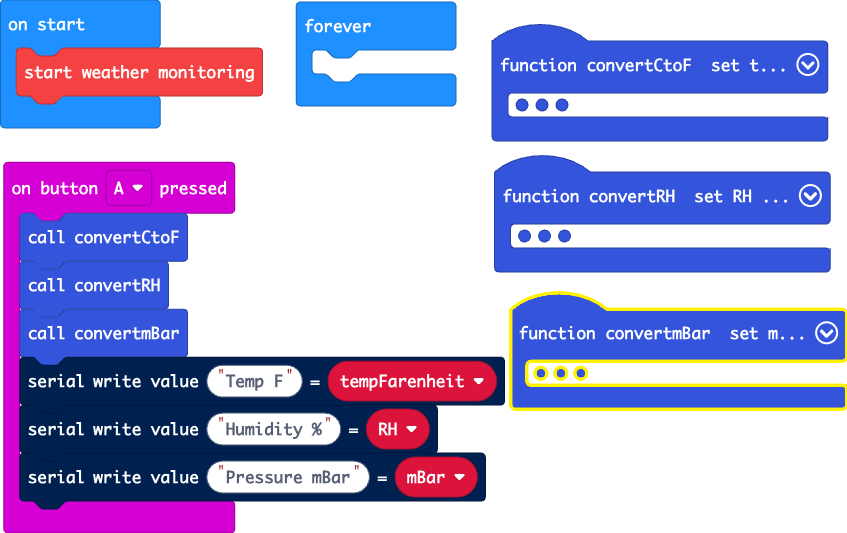
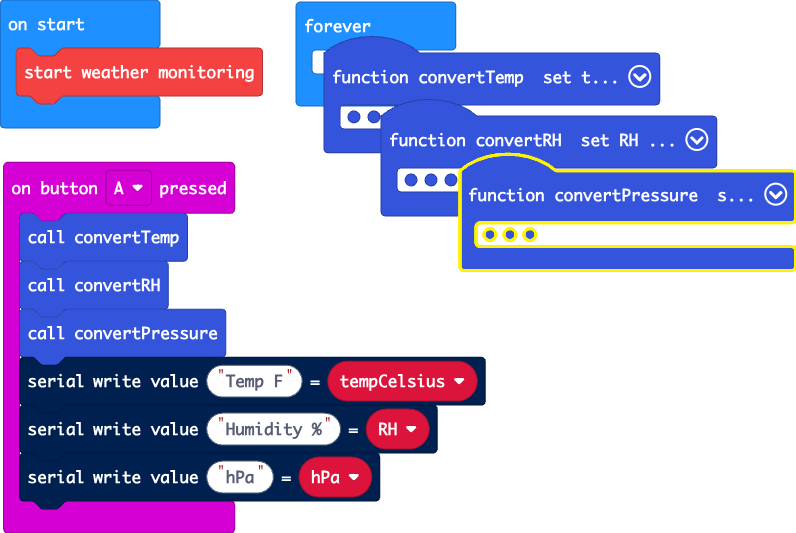
Update main.blocks, main.ts

diff --git a/main.ts b/main.ts
@@ -1,25 +1,25 @@
-function convertCtoF () {
+function convertPressure () {
+    hPa = Math.idiv(weatherbit.pressure(), 25600)
+}
+input.onButtonPressed(Button.A, function () {
+    convertTemp()
+    convertRH()
+    convertPressure()
+    serial.writeValue("Temp F", tempCelsius)
+    serial.writeValue("Humidity %", RH)
+    serial.writeValue("hPa", hPa)
+})
+function convertTemp () {
     tempCelsius = Math.idiv(weatherbit.temperature(), 100)
     tempFarenheit = tempCelsius * 1.8 + 32
 }
-input.onButtonPressed(Button.A, function () {
-    convertCtoF()
-    convertRH()
-    convertmBar()
-    serial.writeValue("Temp F", tempFarenheit)
-    serial.writeValue("Humidity %", RH)
-    serial.writeValue("Pressure mBar", mBar)
-})
 function convertRH () {
     RH = Math.idiv(weatherbit.humidity(), 1024)
 }
-function convertmBar () {
-    mBar = Math.idiv(weatherbit.pressure(), 25600)
-}
-let mBar = 0
-let RH = 0
 let tempFarenheit = 0
+let RH = 0
 let tempCelsius = 0
+let hPa = 0
 weatherbit.startWeatherMonitoring()
 basic.forever(function () {
 	
